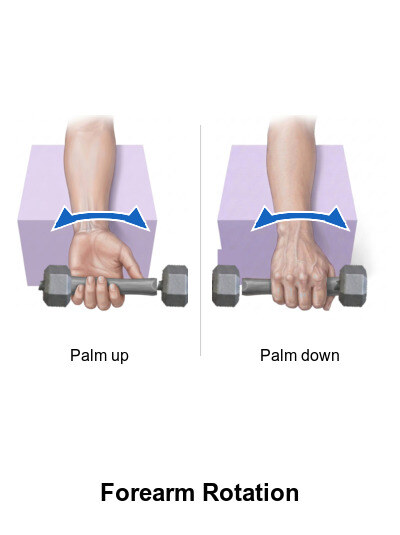
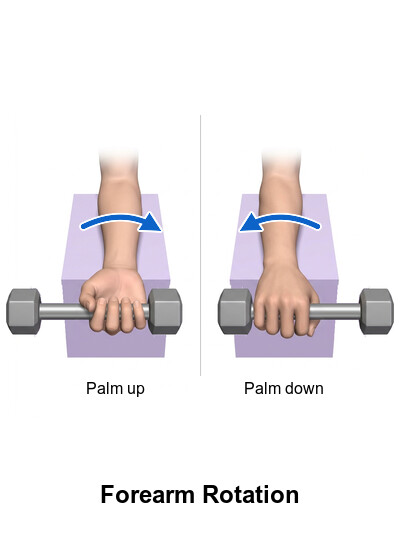
Add missing exercise images, refine AI illustrations, and align cues

diff --git a/logic.js b/logic.js
@@ -10,6 +10,7 @@ const IMAGES = {
   'flexor-stretch.jpg': { ...BRUCE_BLAUS, title: 'Exercise Wrist Flexor Stretch', src: 'https://commons.wikimedia.org/wiki/File:Exercise_Wrist_Flexor_Stretch.png' },
   'wrist-curls.jpg': { ...BRUCE_BLAUS, title: 'Exercise Wrist Curls', src: 'https://commons.wikimedia.org/wiki/File:Exercise_Wrist_Curls.png' },
   'forearm-rotation-db.jpg': { title: 'Forearm Rotation', by: 'Google Gemini (AI-generated)' },
+  'forearm-rotation-short.jpg': { title: 'Forearm Rotation (Short Lever)', by: 'Google Gemini (AI-generated)' },
   'finger-extensions.jpg': { ...BRUCE_BLAUS, title: 'Exercise Finger Extensions', src: 'https://commons.wikimedia.org/wiki/File:Exercise_Finger_Extensions.png' },
   'wrist-extension.jpg': { title: 'Wrist Extension', by: 'Google Gemini (AI-generated)' },
   'wrist-circles.gif': { title: 'Wrist Circles', by: 'Google Gemini (AI-generated)' },
@@ -28,6 +29,7 @@ const IMAGES = {
   'pinch-book.jpg': { title: 'Pinch Hold', by: 'Google Gemini (AI-generated)' },
   'sloper-press.jpg': { title: 'Sloper Press', by: 'Google Gemini (AI-generated)' },
   'isometric-4.jpg': { title: 'Isometric Holds', by: 'Google Gemini (AI-generated)' },
+  'isometric-rotation.jpg': { title: 'Isometric Rotation Holds', by: 'Google Gemini (AI-generated)' },
   'band-row.jpg': { title: 'Band Row', by: 'Google Gemini (AI-generated)' },
 };
 
@@ -426,6 +428,7 @@ const WRIST_PHASES = [
       {
         kind: 'Strength',
         name: 'Isometric rotation holds',
+        img: 'isometric-rotation.jpg',
         mode: 'hold',
         sets: 2,
         secs: 30,
@@ -458,7 +461,7 @@ const WRIST_PHASES = [
       {
         kind: 'Strength',
         name: 'Forearm rotation (1 kg, short lever)',
-        img: 'forearm-rotation-db.jpg',
+        img: 'forearm-rotation-short.jpg',
         mode: 'tempo',
         sets: 3,
         reps: 10,
@@ -527,7 +530,8 @@ const WRIST_PHASES = [
           'Twist the bar as if you wring a wet towel',
           'Let it untwist slowly',
           'Change the direction each set',
-          'Keep the wrists straight. Turn the forearms, not the wrists',
+          'Keep the twist small',
+          MID,
         ],
       },
     ],
@@ -546,7 +550,7 @@ const WRIST_PHASES = [
         secs: 20,
         cues: [
           BOTH,
-          'Use your lightest kettlebell. Hold it by the handle, bell up, elbow at 90°',
+          'Use your lightest kettlebell. Hold it by the handle, bell up, elbow at 90° in front of you, forearm upright',
           'Squeeze the handle and keep the wrist straight',
           'The bell tries to fall over. Keep it upright with small corrections',
           'Too hard? Hold it bell down, by the handle',
@@ -601,7 +605,12 @@ const WRIST_PHASES = [
         mode: 'hold',
         sets: 3,
         secs: 30,
-        cues: [BOTH, 'Bell up, elbow at 90°, wrist straight', 'Make it harder: slowly push it overhead, then lower it', 'Continue this exercise 2–3 times a week after you finish the plan'],
+        cues: [
+          BOTH,
+          'Bell up, elbow at 90°, forearm upright, wrist straight',
+          'Make it harder: slowly push it overhead, then lower it',
+          'Continue this exercise 2–3 times a week after you finish the plan',
+        ],
       },
       {
         kind: 'Climbing',
